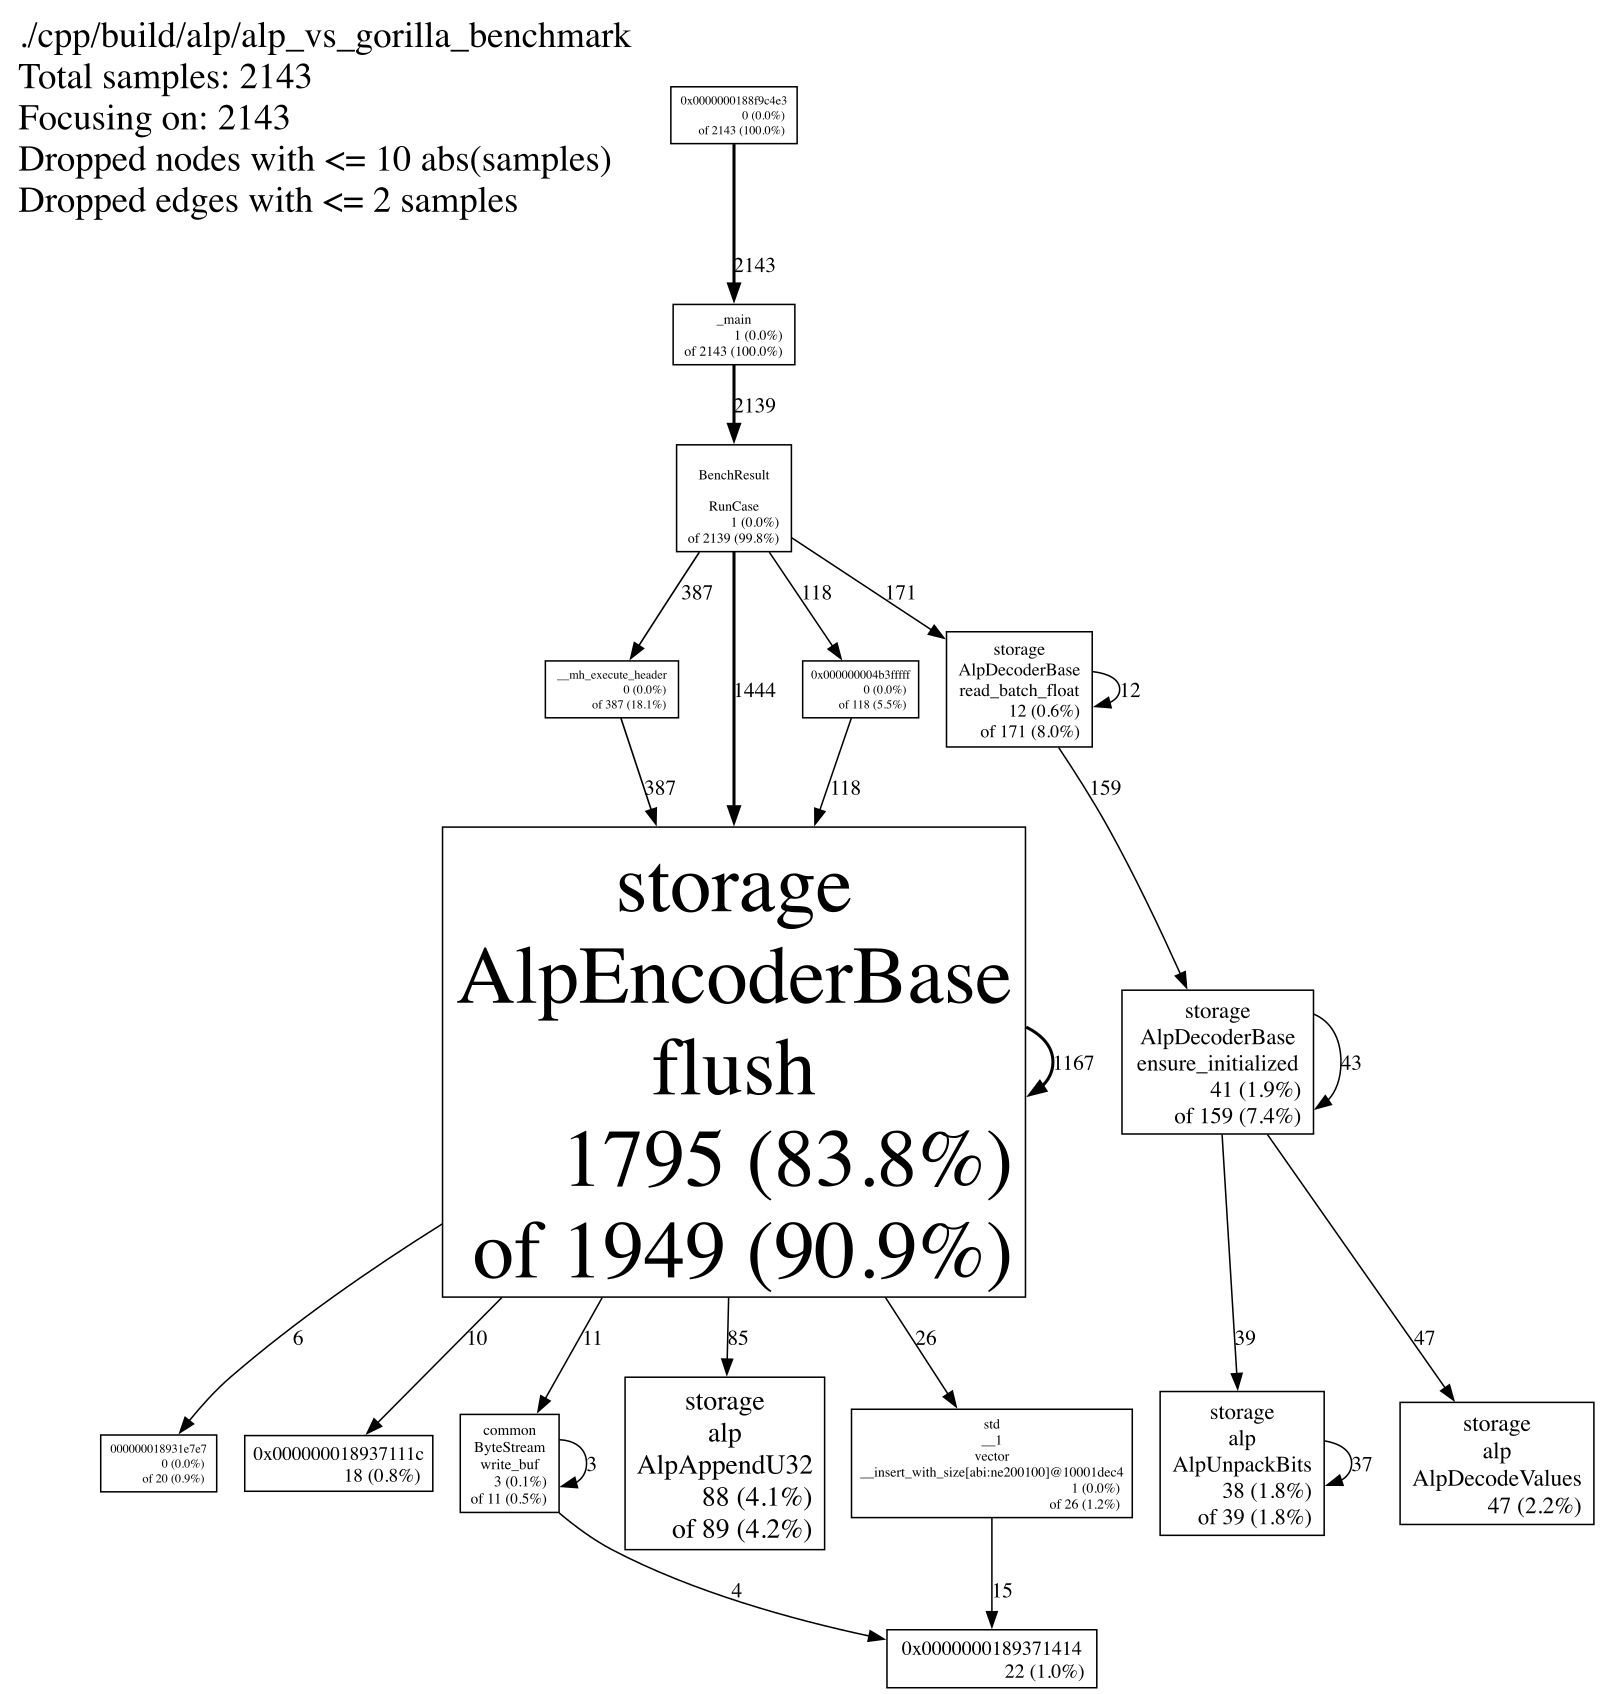
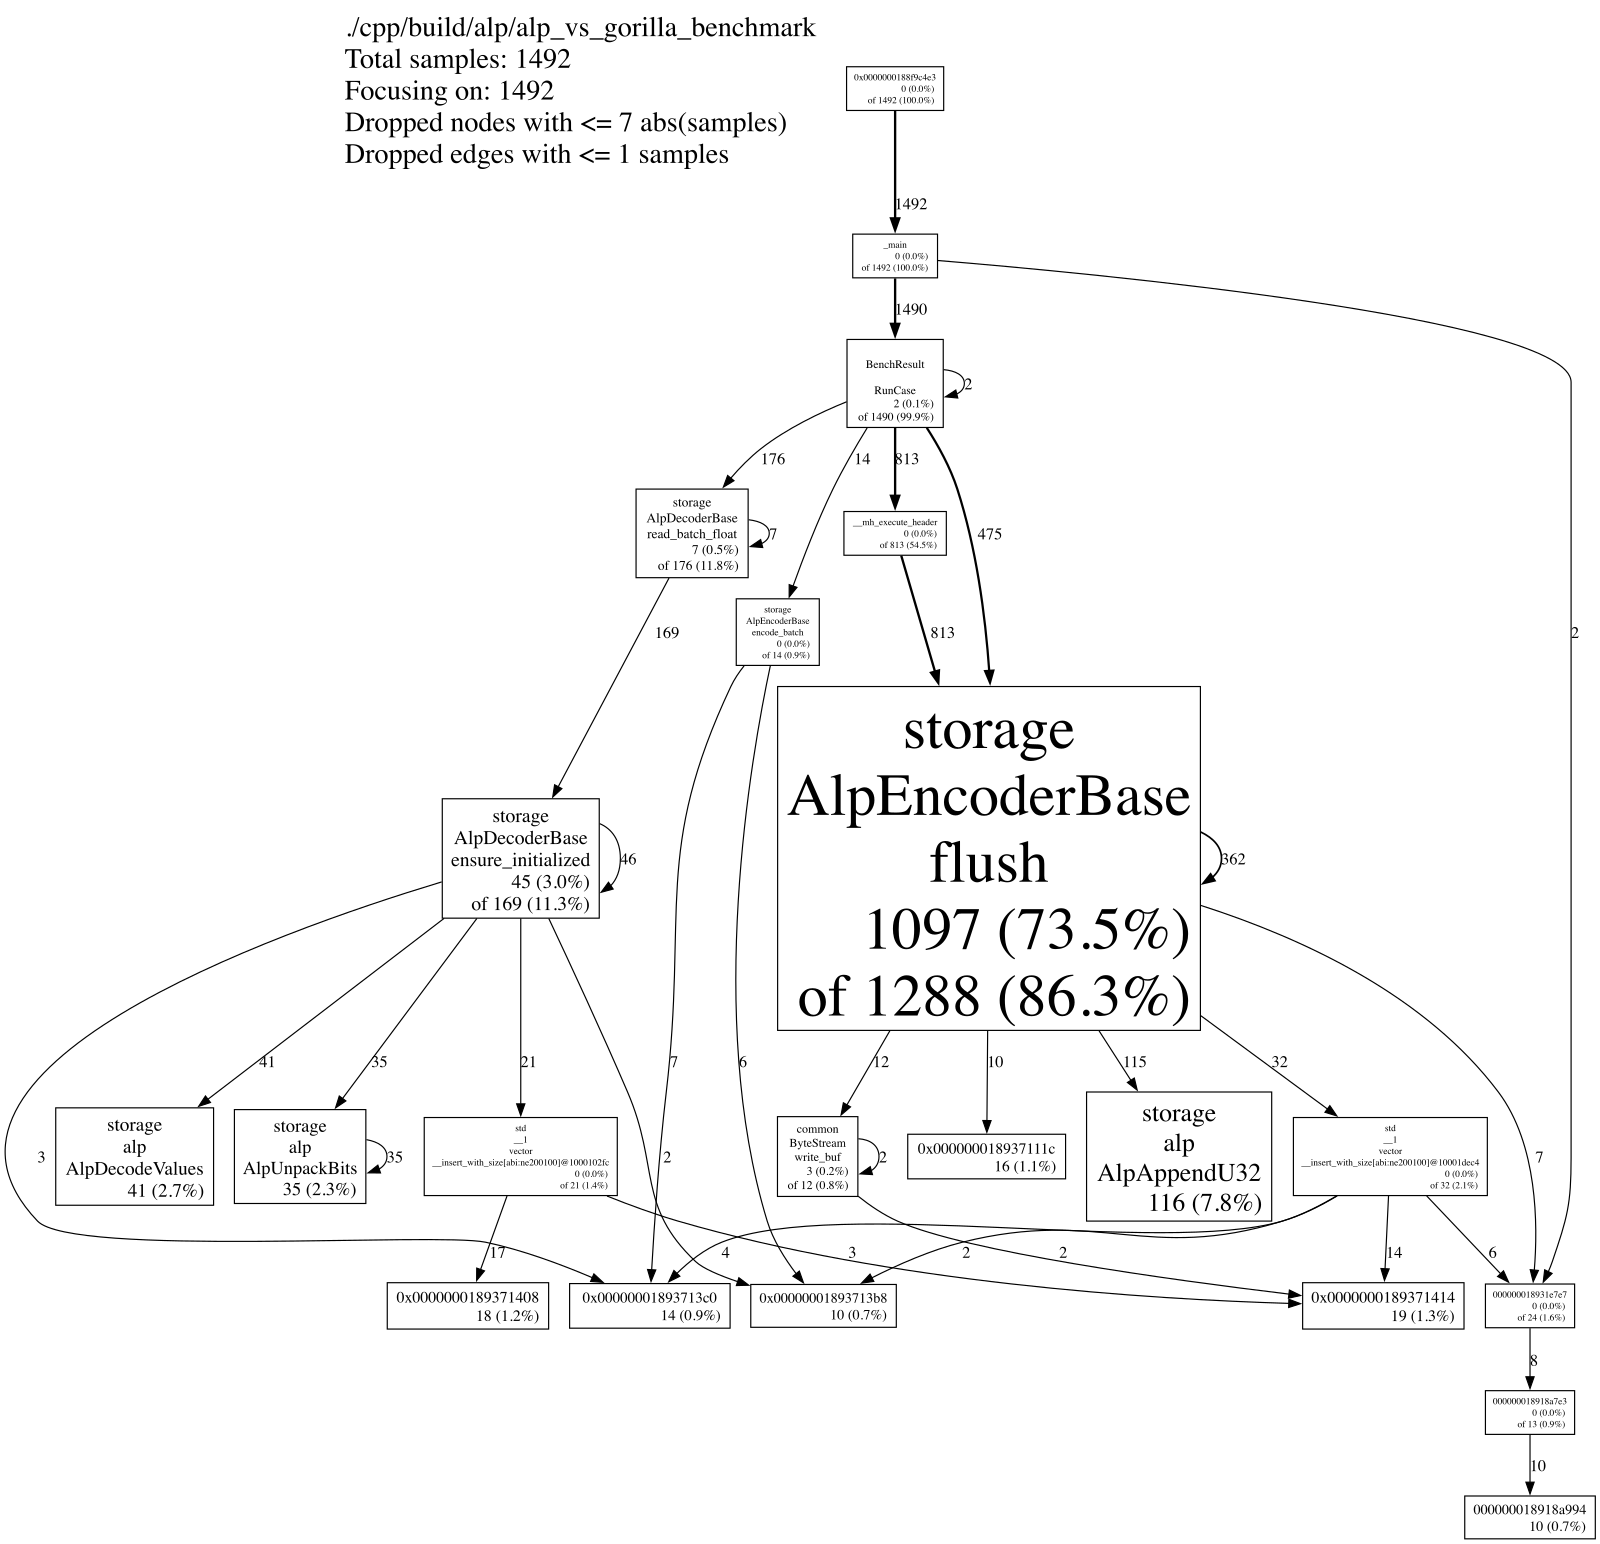
perf(cpp): word-pack ALP blocks and refresh profiling

diff --git a/cpp/src/encoding/alp/alp_scalar.h b/cpp/src/encoding/alp/alp_scalar.h
@@ -70,16 +70,30 @@ inline void AlpPackBits(const Unsigned* values, uint32_t count,
         return;
     }
 
+    // Word-based packing: build a 128-bit window for each value and OR it
+    // into two adjacent 64-bit words. This removes the per-bit loop while
+    // keeping the byte layout identical to the scalar reference.
+    const uint64_t mask =
+        bit_width >= 64 ? ~static_cast<uint64_t>(0)
+                        : ((static_cast<uint64_t>(1) << bit_width) - 1);
     uint64_t bit_pos = 0;
     for (uint32_t i = 0; i < count; ++i) {
-        const Unsigned value = values[i];
-        for (uint8_t b = 0; b < bit_width; ++b) {
-            if ((value >> b) & static_cast<Unsigned>(1)) {
-                body[static_cast<uint32_t>(bit_pos >> 3)] |= static_cast<uint8_t>(
-                    1u << (bit_pos & 7u));
-            }
-            ++bit_pos;
+        const uint64_t value = static_cast<uint64_t>(values[i]) & mask;
+        const uint32_t byte_pos = static_cast<uint32_t>(bit_pos >> 3);
+        const uint32_t bit_offset = static_cast<uint32_t>(bit_pos & 7u);
+        const uint64_t low = value << bit_offset;
+        const uint64_t high =
+            bit_offset == 0 ? 0 : (value >> (64 - bit_offset));
+        uint64_t dst = 0;
+        std::memcpy(&dst, body.data() + byte_pos, sizeof(dst));
+        dst |= low;
+        std::memcpy(body.data() + byte_pos, &dst, sizeof(dst));
+        if (high != 0) {
+            std::memcpy(&dst, body.data() + byte_pos + sizeof(dst), sizeof(dst));
+            dst |= high;
+            std::memcpy(body.data() + byte_pos + sizeof(dst), &dst, sizeof(dst));
         }
+        bit_pos += bit_width;
     }
 }
 

diff --git a/cpp/src/encoding/alp/alp_format.h b/cpp/src/encoding/alp/alp_format.h
@@ -77,19 +77,27 @@ inline void AlpAppendU8(std::vector<uint8_t>& out, uint8_t v) {
 }
 
 inline void AlpAppendU16(std::vector<uint8_t>& out, uint16_t v) {
-    out.push_back(static_cast<uint8_t>(v & 0xFFu));
-    out.push_back(static_cast<uint8_t>((v >> 8) & 0xFFu));
+    const size_t old_size = out.size();
+    out.resize(old_size + 2);
+    out[old_size] = static_cast<uint8_t>(v & 0xFFu);
+    out[old_size + 1] = static_cast<uint8_t>((v >> 8) & 0xFFu);
 }
 
 inline void AlpAppendU32(std::vector<uint8_t>& out, uint32_t v) {
-    for (int i = 0; i < 4; ++i) {
-        out.push_back(static_cast<uint8_t>((v >> (8 * i)) & 0xFFu));
-    }
+    const size_t old_size = out.size();
+    out.resize(old_size + 4);
+    out[old_size] = static_cast<uint8_t>(v & 0xFFu);
+    out[old_size + 1] = static_cast<uint8_t>((v >> 8) & 0xFFu);
+    out[old_size + 2] = static_cast<uint8_t>((v >> 16) & 0xFFu);
+    out[old_size + 3] = static_cast<uint8_t>((v >> 24) & 0xFFu);
 }
 
 inline void AlpAppendU64(std::vector<uint8_t>& out, uint64_t v) {
+    const size_t old_size = out.size();
+    out.resize(old_size + 8);
     for (int i = 0; i < 8; ++i) {
-        out.push_back(static_cast<uint8_t>((v >> (8 * i)) & 0xFFu));
+        out[old_size + static_cast<size_t>(i)] =
+            static_cast<uint8_t>((v >> (8 * i)) & 0xFFu);
     }
 }
 

diff --git a/cpp/docs/alp-profiling-analysis.md b/cpp/docs/alp-profiling-analysis.md
@@ -48,12 +48,12 @@ Flat profile:
 
 | Function | Flat | Cumulative |
 | --- | ---: | ---: |
-| `storage::AlpEncoderBase::flush` | 83.8% | 90.9% |
-| `storage::alp::AlpAppendU32` | 4.1% | 4.2% |
-| `storage::AlpDecoderBase::ensure_initialized` | 1.9% | 7.4% |
-| `storage::alp::AlpUnpackBits` | 1.8% | 1.8% |
-| `storage::alp::AlpDecodeValues` | 2.2% | 2.2% |
-| `storage::AlpDecoderBase::read_batch_float` | 0.6% | 8.0% |
+| `storage::AlpEncoderBase::flush` | 73.5% | 86.3% |
+| `storage::alp::AlpAppendU32` | 7.8% | 7.8% |
+| `storage::AlpDecoderBase::ensure_initialized` | 3.0% | 11.3% |
+| `storage::alp::AlpDecodeValues` | 2.7% | 2.7% |
+| `storage::alp::AlpUnpackBits` | 2.3% | 2.3% |
+| `storage::AlpDecoderBase::read_batch_float` | 0.5% | 11.8% |
 
 The encode path dominates. Decode is already a small fraction of total time.
 
@@ -84,24 +84,27 @@ pattern:
 | --- | ---: | ---: |
 | `AlpChooseFactorExponent` | 0.004 | 0.009 |
 | `AlpEncodeValues` (SIMD) | 0.001 | 0.001 |
-| `AlpPackBits` (scalar) | 0.009 | 0.006 |
-| `AlpEncodePage` total | 0.012 | 0.017 |
+| `AlpPackBits` (word-based) | 0.002 | 0.002 |
+| `AlpEncodePage` total | 0.006 | 0.013 |
 
-The SIMD value kernel is only about 6-8% of ALP encode time. The rest is the
-scalar exponent/factor search and the scalar bit-packing loop.
+After replacing the per-bit packing loop with word-based packing, the packing
+cost dropped to about 0.002 ms/block. The SIMD value kernel is still only about
+8-15% of encode time; the remaining dominant cost is the scalar
+exponent/factor search (about 67% of FLOAT and 69% of DOUBLE encode in this
+breakdown).
 
 ## Why ALP Still Loses
 
-1. **Encode is not end-to-end SIMD.**
-   The SIMD path covers `value -> integer` conversion and exception detection,
-   but `AlpPackBits` is scalar and, for FLOAT, accounts for roughly 75% of the
-   encode time. That is why ALP FLOAT encode is slower than Gorilla even though
-   the value kernel is SIMD.
-
-2. **The exponent/factor search is scalar.**
+1. **The remaining encode cost is the scalar e/f search.**
    `AlpChooseFactorExponent` evaluates candidate `(factor, exponent)` pairs on
-   sampled values. It is about 33% of FLOAT encode and about 53% of DOUBLE
-   encode. For DOUBLE, this is the largest single encode cost.
+   sampled values. After word-based packing it is the largest remaining encode
+   cost: about 67% of FLOAT and 69% of DOUBLE encode in the microbenchmark.
+   SIMD packing is no longer the bottleneck.
+
+2. **The SIMD value kernel is a small part of encode.**
+   `AlpEncodeValues` is only about 8-15% of encode time. End-to-end encode
+   speed therefore depends mostly on the search and packing decisions, not on
+   the value conversion itself.
 
 3. **Non-decimal data falls back to PLAIN.**
    Smooth/random/constant data often has too many exceptions for ALP to win.
@@ -117,29 +120,24 @@ scalar exponent/factor search and the scalar bit-packing loop.
 5. **The benchmark is on Apple Silicon.**
    SIMDe maps the AVX2-style kernels to NEON here. On x86, a native `-mavx2`
    translation unit and runtime dispatch are still required to get the AVX2
-   peak; without those flags SIMDe may emulated AVX2 with SSE2.
+   peak; without those flags SIMDe may emulate AVX2 with SSE2.
 
 ## Next Optimizations
 
-1. **SIMD bit packing.**
-   Pack four values at a time with the same 64-bit-window layout used by the
-   SIMD unpack kernel. This directly targets the largest FLOAT encode cost.
-
-2. **SIMD or cheaper exponent/factor selection.**
+1. **SIMD or cheaper exponent/factor selection.**
    Evaluate the candidate pairs on the 32-value sample with SIMD, or reduce the
-   candidate set with an early-exit estimate. This targets the DOUBLE encode
-   cost.
+   candidate set with a two-stage/early-exit estimate. This is now the largest
+   remaining encode cost for both FLOAT and DOUBLE.
 
-3. **Remove per-block allocations.**
-   Reuse scratch vectors for `encoded`, `adjusted`, `bitmap`, and `body`
-   instead of constructing them per block. Decode the final values directly
-   into the caller's output buffer rather than an intermediate `values_`
-   vector.
+2. **Remove per-block allocations and copies.**
+   Reuse scratch vectors for `encoded`, `adjusted`, `bitmap`, `body`, and the
+   exception list instead of constructing them per block. Decode directly into
+   the caller's output buffer rather than an intermediate `values_` vector.
 
-4. **Adaptive codec selection.**
+3. **Adaptive codec selection.**
    Choose Gorilla for constant/high-entropy columns and ALP for decimal-like
    columns. This avoids the PLAIN fallback cases where Gorilla is better.
 
-5. **Native x86 dispatch.**
+4. **Native x86 dispatch.**
    Add an AVX2 object library and CPU detection so x86 users get native AVX2
    without `-march=native`, plus an optional AVX-512 path for DOUBLE.

diff --git a/cpp/docs/alp-vs-gorilla-benchmark.md b/cpp/docs/alp-vs-gorilla-benchmark.md
@@ -58,45 +58,46 @@ AVX2/AVX-512 peak.
 
 | Codec | Pattern | Encoded bytes | Ratio | Encode MB/s | Decode MB/s | Correct |
 | --- | --- | ---: | ---: | ---: | ---: | --- |
-| ALP | decimal | 2,365,932 | 1.773 | 223.4 | 2968.5 | yes |
-| Gorilla | decimal | 2,878,091 | 1.457 | 346.1 | 1374.5 | yes |
-| ALP | smooth | 4,117,400 | 1.019 | 141.7 | 2306.6 | yes |
-| Gorilla | smooth | 4,453,445 | 0.942 | 246.5 | 1443.8 | yes |
-| ALP | random | 4,222,992 | 0.993 | 332.1 | 2269.9 | yes |
-| Gorilla | random | 4,456,456 | 0.941 | 242.0 | 1429.9 | yes |
-| ALP | constant | 28,688 | 146.204 | 885.8 | 7323.8 | yes |
-| Gorilla | constant | 131,082 | 31.998 | 1947.9 | 73281.5 | yes |
+| ALP | decimal | 2,365,932 | 1.773 | 424.8 | 2719.7 | yes |
+| Gorilla | decimal | 2,878,091 | 1.457 | 334.8 | 1275.9 | yes |
+| ALP | smooth | 4,117,400 | 1.019 | 387.9 | 2281.3 | yes |
+| Gorilla | smooth | 4,453,445 | 0.942 | 233.8 | 1324.8 | yes |
+| ALP | random | 4,222,992 | 0.993 | 377.4 | 2249.6 | yes |
+| Gorilla | random | 4,456,456 | 0.941 | 229.4 | 1361.4 | yes |
+| ALP | constant | 28,688 | 146.204 | 853.0 | 7202.3 | yes |
+| Gorilla | constant | 131,082 | 31.998 | 1840.8 | 68965.5 | yes |
 
 ### DOUBLE
 
 | Codec | Pattern | Encoded bytes | Ratio | Encode MB/s | Decode MB/s | Correct |
 | --- | --- | ---: | ---: | ---: | ---: | --- |
-| ALP | decimal | 1,423,880 | 5.891 | 397.0 | 6099.7 | yes |
-| Gorilla | decimal | 8,650,641 | 0.970 | 280.3 | 2695.5 | yes |
-| ALP | smooth | 8,343,184 | 1.005 | 194.8 | 2171.6 | yes |
-| Gorilla | smooth | 8,629,855 | 0.972 | 281.2 | 2772.5 | yes |
-| ALP | random | 8,417,296 | 0.997 | 295.7 | 2005.7 | yes |
-| Gorilla | random | 8,650,764 | 0.970 | 280.7 | 2838.2 | yes |
-| ALP | constant | 8,417,296 | 0.997 | 547.4 | 2027.5 | yes |
-| Gorilla | constant | 131,090 | 63.991 | 3876.4 | 73114.8 | yes |
+| ALP | decimal | 1,423,880 | 5.891 | 562.6 | 6297.2 | yes |
+| Gorilla | decimal | 8,650,641 | 0.970 | 270.4 | 2534.7 | yes |
+| ALP | smooth | 8,343,184 | 1.005 | 479.5 | 2077.6 | yes |
+| Gorilla | smooth | 8,629,855 | 0.972 | 270.8 | 2615.2 | yes |
+| ALP | random | 8,417,296 | 0.997 | 511.7 | 2022.4 | yes |
+| Gorilla | random | 8,650,764 | 0.970 | 270.5 | 2607.3 | yes |
+| ALP | constant | 8,417,296 | 0.997 | 543.5 | 2012.7 | yes |
+| Gorilla | constant | 131,090 | 63.991 | 3689.6 | 80000.0 | yes |
 
 ## Interpretation
 
 - ALP is designed for decimal-like floating-point columns. On the decimal
   cases it improves both compression and decode throughput:
-  - FLOAT decimal: 1.22x better ratio and 2.16x faster decode than Gorilla.
-  - DOUBLE decimal: 6.07x better ratio and 2.26x faster decode than Gorilla.
-- ALP FLOAT encode is slower than Gorilla on this data (223 MB/s versus
-  346 MB/s). DOUBLE encode is faster (397 MB/s versus 280 MB/s). The
-  exponent/factor search is currently scalar and is the main FLOAT encode
-  cost; it is a candidate for SIMD acceleration.
+  - FLOAT decimal: 1.22x better ratio, 1.27x faster encode, and 2.13x faster
+    decode than Gorilla.
+  - DOUBLE decimal: 6.07x better ratio, 2.08x faster encode, and 2.48x faster
+    decode than Gorilla.
+- ALP now wins both encode and decode on the decimal cases. The word-based
+  bit-packing change removed the largest FLOAT encode cost; the remaining
+  encode cost is the scalar exponent/factor search.
 - ALP falls back to PLAIN for non-decimal smooth/random data. In those cases
   Gorilla is the better choice, so ALP must remain opt-in.
 - Gorilla is extremely fast on constant blocks. ALP does not try to beat that
   case; the adaptive selection should leave constant columns on Gorilla.
-- The benchmark includes the SIMDe value kernels and the SIMD 4-lane unpack
-  path. Native x86 AVX2 multi-versioning and AVX-512 kernels are expected to
-  increase ALP decode throughput further on x86.
+- The benchmark includes the SIMDe value kernels, SIMD 4-lane unpack, and
+  word-based packing. Native x86 AVX2 multi-versioning and AVX-512 kernels are
+  expected to increase ALP throughput further on x86.
 
 ## Reproduce
 
